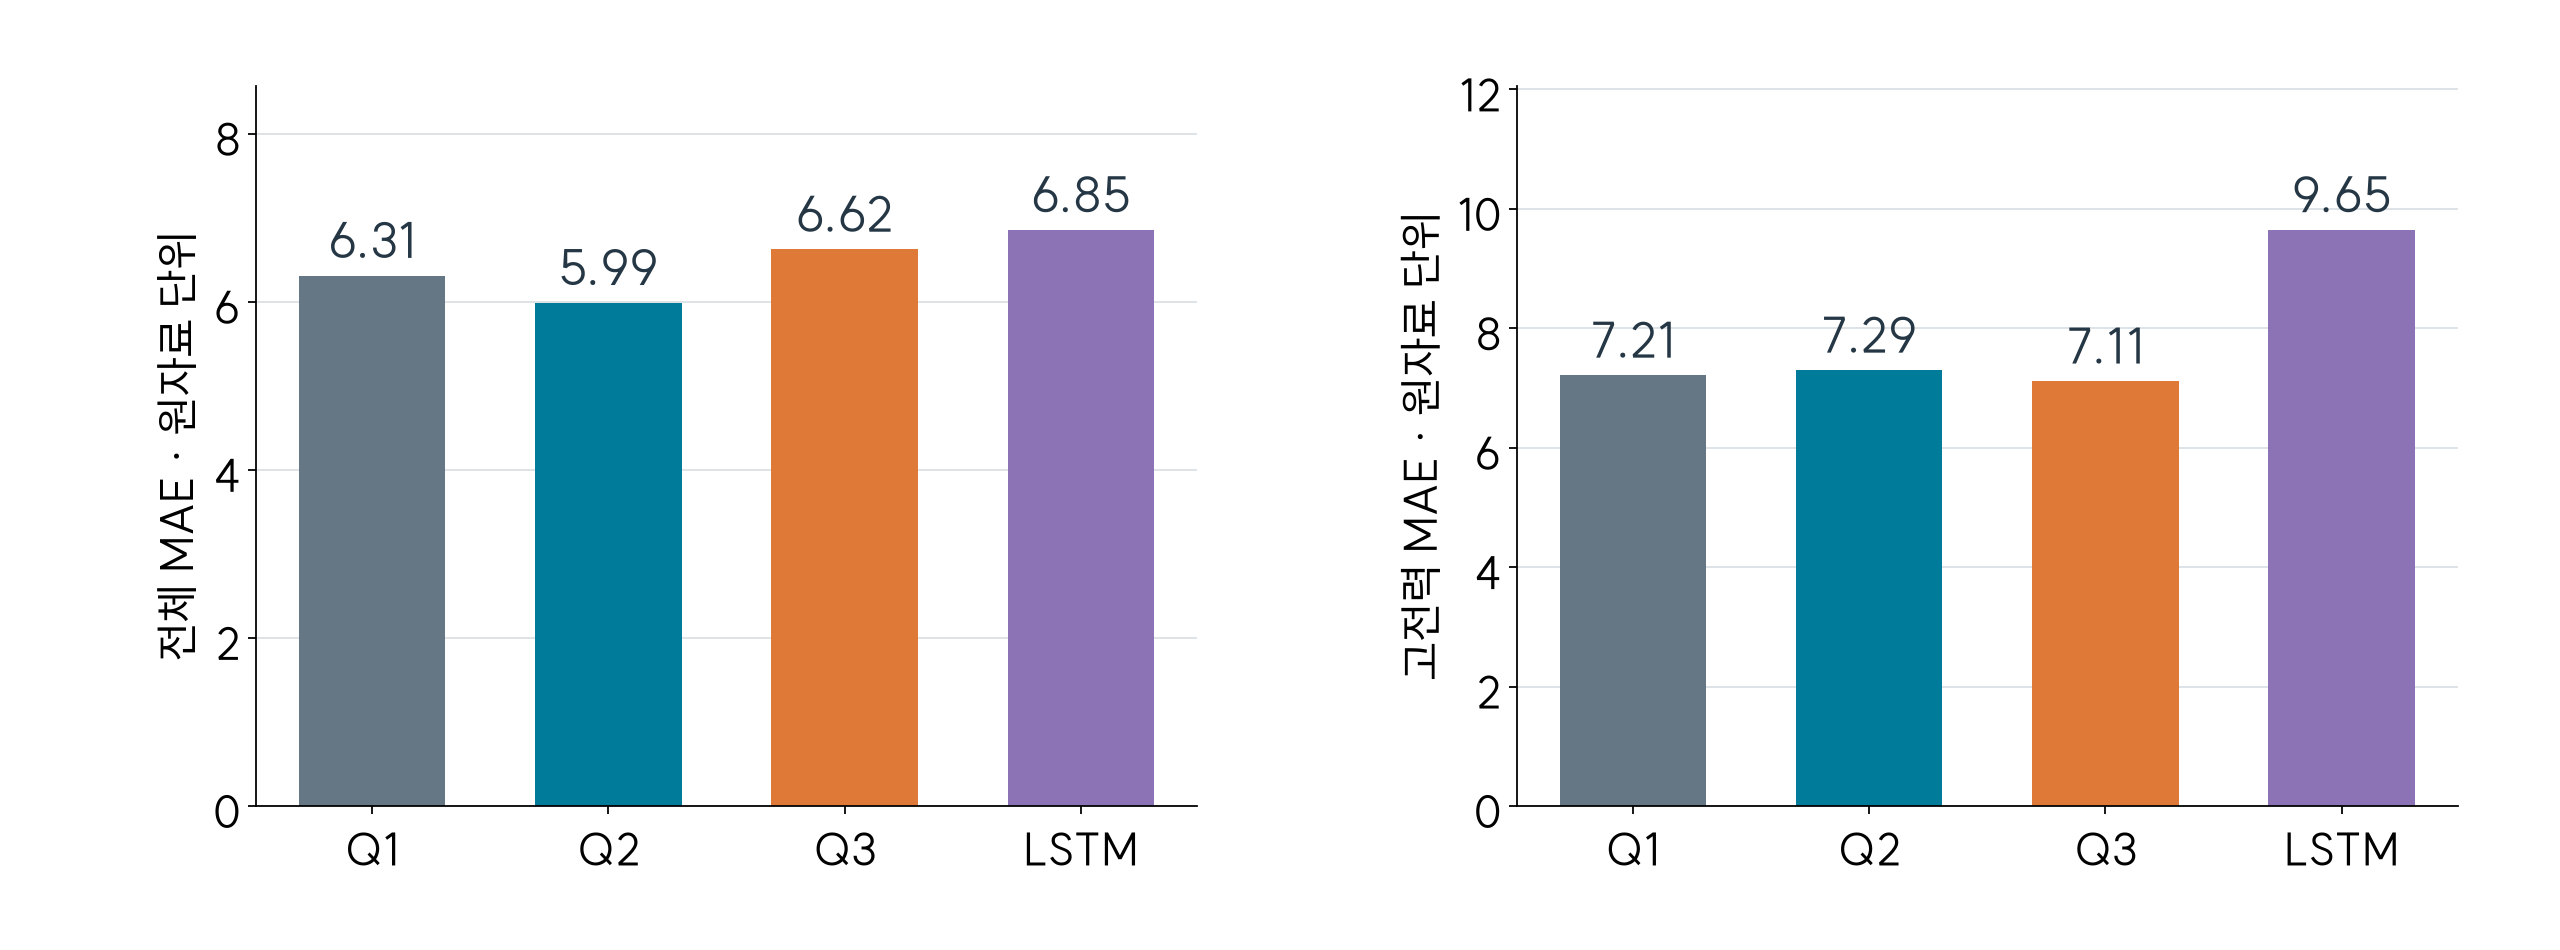
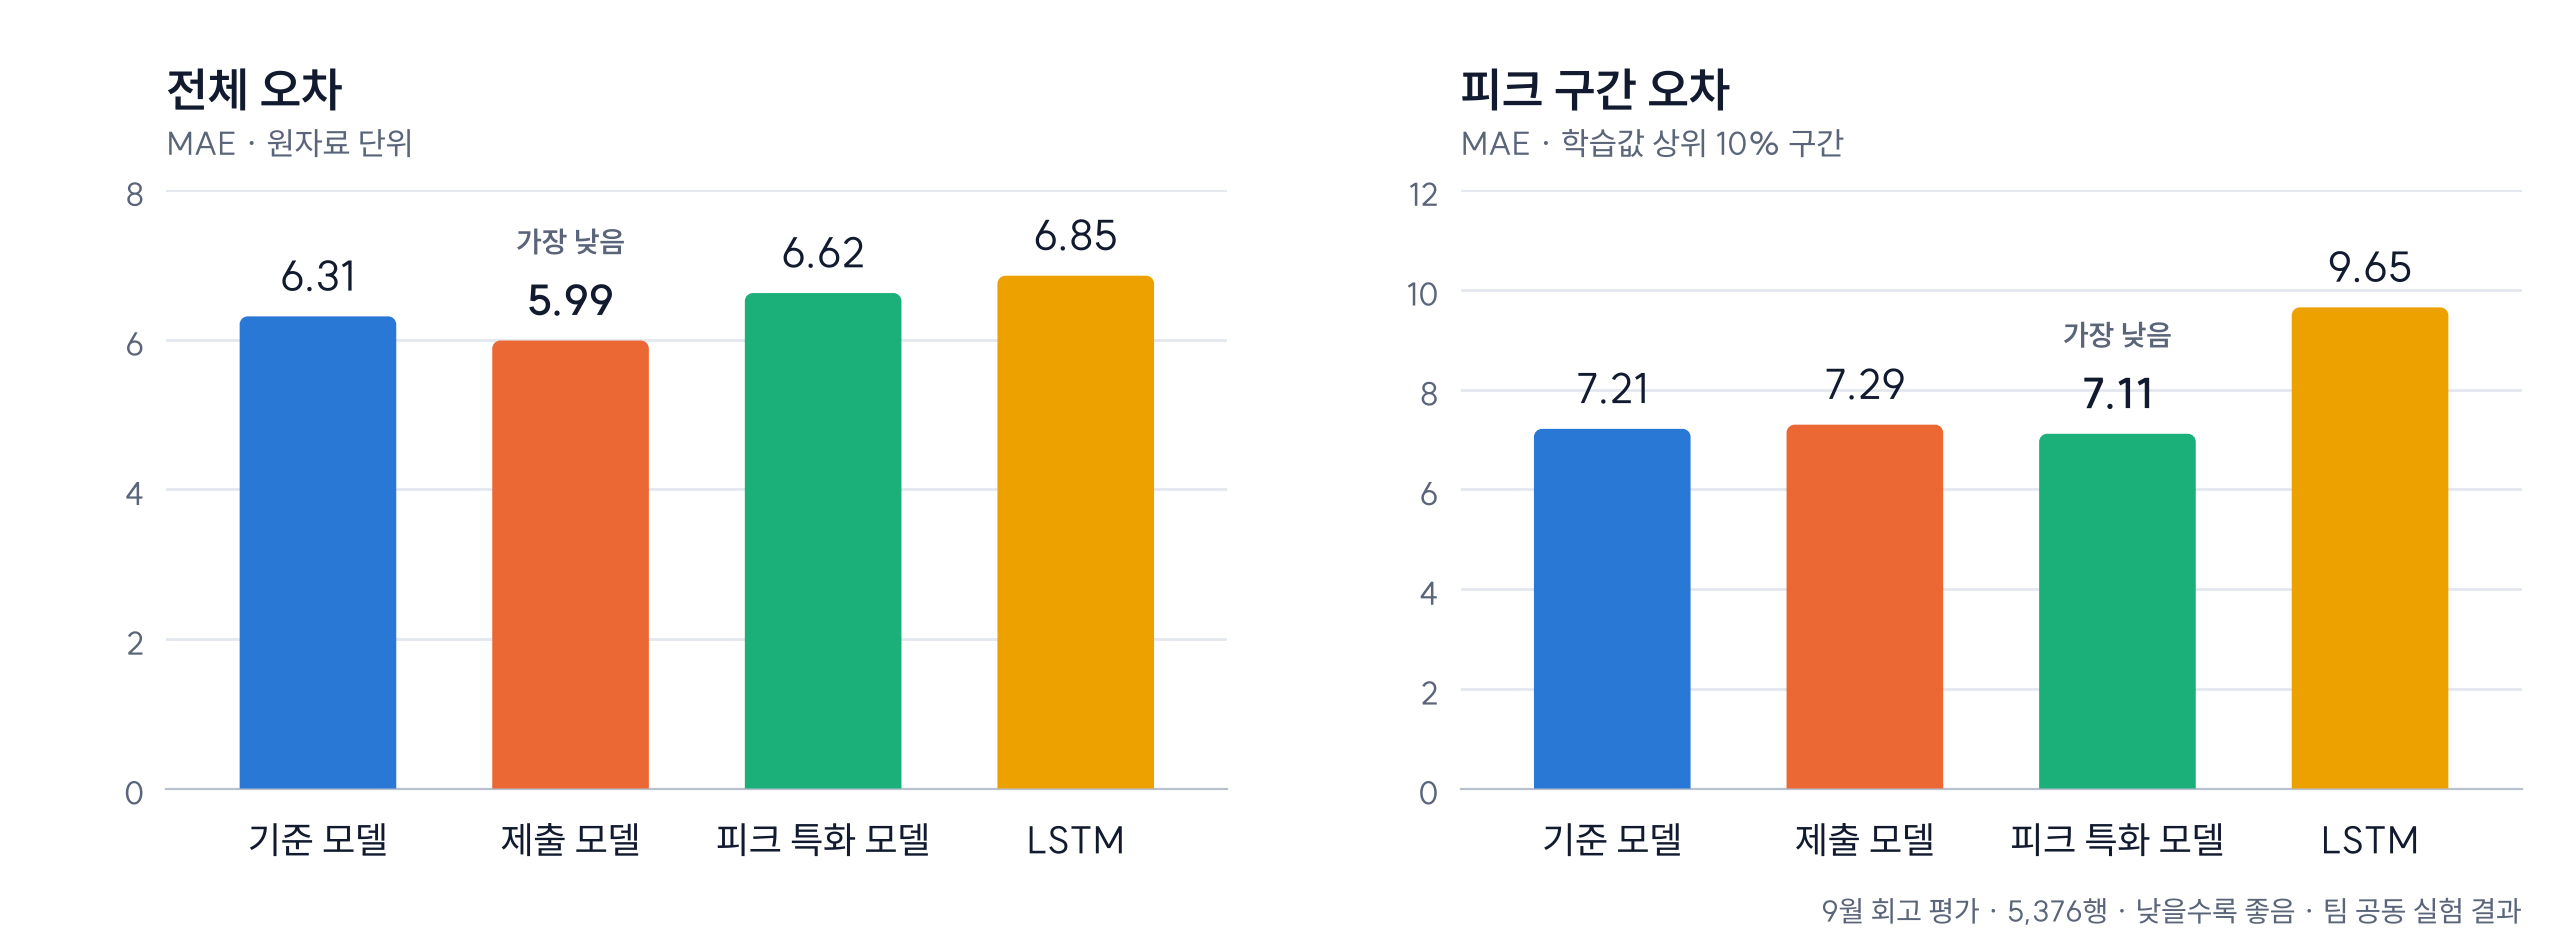
Update power forecast comparison chart and model labels

diff --git a/power-forecast.html b/power-forecast.html
@@ -64,7 +64,7 @@
 </tbody></table></div>
 <p>제출 모델은 기준 모델보다 <strong>전체 오차를 5.1%, 큰 오차를 절반 이하로</strong> 줄였습니다. 피크 구간은 피크 특화 모델이 더 정확해 두 결과를 함께 남겼습니다.</p>
 <p class="power-limit"><strong>회고.</strong> 제출 모델은 사전에 정한 교체 기준을 넘지 못했고, 피크 구간 오차는 오히려 늘었습니다. 9월 결과를 보고 고른 선택이라 새 기간에서 다시 검증해야 합니다.</p>
-<figure class="power-figure"><a class="power-image-link" href="assets/power-forecast/06_model_comparison.png" target="_blank" rel="noopener noreferrer" aria-label="공동 실험의 기준·제출·피크 특화·LSTM 모델의 전체 오차와 피크 구간 오차 비교 원본 확대"><img src="assets/power-forecast/06_model_comparison.png" width="2560" height="950" alt="공동 실험의 기준·제출·피크 특화·LSTM 모델의 전체 오차와 피크 구간 오차 비교" loading="lazy"></a><figcaption>전체 오차는 제출 모델, 피크 구간 오차는 피크 특화 모델이 가장 낮았습니다. 팀 공동 실험 결과입니다.<span class="power-enlarge">그림을 선택하면 원본을 확대할 수 있습니다.</span></figcaption></figure>
+<figure class="power-figure"><a class="power-image-link" href="assets/power-forecast/06_model_comparison.png" target="_blank" rel="noopener noreferrer" aria-label="공동 실험의 기준·제출·피크 특화·LSTM 모델의 전체 오차와 피크 구간 오차 비교 원본 확대"><img src="assets/power-forecast/06_model_comparison.png" width="2560" height="950" alt="9월 평가 막대그래프. 전체 오차: 기준 6.31, 제출 5.99, 피크 특화 6.62, LSTM 6.85. 피크 구간 오차: 기준 7.21, 제출 7.29, 피크 특화 7.11, LSTM 9.65" loading="lazy"></a><figcaption>전체 오차는 제출 모델, 피크 구간 오차는 피크 특화 모델이 가장 낮았습니다. 팀 공동 실험 결과입니다.<span class="power-enlarge">그림을 선택하면 원본을 확대할 수 있습니다.</span></figcaption></figure>
 </div>
 </div></section>
 <section class="case-section" id="alarm-analysis" aria-labelledby="alarm-analysis-title"><h2 data-reveal id="alarm-analysis-title"><span class="step-number">04</span> 피크는 놓치지 않되, 너무 자주 울리지 않게 했습니다.</h2><div class="case-content">

diff --git a/projects.js b/projects.js
@@ -79,7 +79,7 @@ window.PORTFOLIO_PROJECTS = [
     category: '데이터 분석 · 머신러닝',
     tags: ['Python', 'pandas', 'LightGBM', 'scikit-learn', 'PyTorch'],
     cover: 'assets/power-forecast/06_model_comparison.png',
-    coverAlt: '공동 실험의 Q1·Q2·Q3·LSTM 전체 오차와 고전력 오차 비교',
+    coverAlt: '9월 평가에서 기준·제출·피크 특화·LSTM 모델의 전체 오차와 피크 구간 오차 막대 비교. 전체 오차는 제출 모델 5.99, 피크 구간 오차는 피크 특화 모델 7.11이 가장 낮음',
     highlights: [
       { label: '문제', text: '공장 전력을 15분 단위로 예측하고 피크 전에 경보하기 (경진대회 과제)' },
       { label: '내 역할', text: '팀장 · 데이터 검증 · 평가 기준 설계' },

diff --git a/evidence/power-forecast/make_model_comparison.py b/evidence/power-forecast/make_model_comparison.py
@@ -1,0 +1,79 @@
+"""Re-draw 06_model_comparison.png with the page's model names.
+
+Values come straight from evidence/power-forecast/model_comparison.csv (mae, high_mae).
+Output keeps the original 2560x950 px so the page's width/height attributes stay valid.
+"""
+import csv, sys
+import matplotlib
+matplotlib.use("Agg")
+from matplotlib import font_manager as fm
+import matplotlib.pyplot as plt
+from matplotlib.path import Path
+from matplotlib.patches import PathPatch
+
+def top_rounded_bar(ax, x0, x1, h, rpx, color):
+    """Bar whose data end has rounded corners (rpx device px) and a square baseline."""
+    fig = ax.figure
+    fig.canvas.draw()
+    bb = ax.get_window_extent()
+    (xa, xb), (ya, yb) = ax.get_xlim(), ax.get_ylim()
+    rx = rpx * (xb - xa) / bb.width
+    ry = min(rpx * (yb - ya) / bb.height, h / 2)
+    k = 0.5523
+    verts = [(x0, 0), (x0, h - ry), (x0, h - ry + k * ry), (x0 + rx - k * rx, h), (x0 + rx, h),
+             (x1 - rx, h), (x1 - rx + k * rx, h), (x1, h - ry + k * ry), (x1, h - ry), (x1, 0), (x0, 0)]
+    codes = [Path.MOVETO, Path.LINETO, Path.CURVE4, Path.CURVE4, Path.CURVE4,
+             Path.LINETO, Path.CURVE4, Path.CURVE4, Path.CURVE4, Path.LINETO, Path.CLOSEPOLY]
+    ax.add_patch(PathPatch(Path(verts, codes), facecolor=color, linewidth=0, zorder=3))
+
+CSV, OUT, FONTDIR = sys.argv[1], sys.argv[2], sys.argv[3]
+for w in ("Regular", "Bold"):
+    fm.fontManager.addfont(f"{FONTDIR}/SUIT-{w}.ttf")
+plt.rcParams["font.family"] = "SUIT Static"
+plt.rcParams["font.weight"] = 450
+
+rows = {r["alias"].lstrip(""): r for r in csv.DictReader(open(CSV, encoding="utf-8-sig"))}
+order = [("Q1", "기준 모델"), ("Q2", "제출 모델"), ("Q3", "피크 특화 모델"), ("LSTM", "LSTM")]
+# Fixed categorical order (validated: adjacent CVD ΔE ≥ 9.1, normal ΔE ≥ 22.9). Color follows the model in both panels.
+colors = ["#2a78d6", "#eb6834", "#1baf7a", "#eda100"]
+INK, INK2, GRID = "#111a2e", "#5a6579", "#e3e7ee"
+
+panels = [
+    ("mae", "전체 오차", "MAE · 원자료 단위", 8),
+    ("high_mae", "피크 구간 오차", "MAE · 학습값 상위 10% 구간", 12),
+]
+
+fig, axes = plt.subplots(1, 2, figsize=(12.8, 4.75), dpi=200)
+fig.subplots_adjust(left=0.065, right=0.985, top=0.80, bottom=0.17, wspace=0.22)
+
+for ax, (key, title, ylabel, ymax) in zip(axes, panels):
+    vals = [float(rows[a][key]) for a, _ in order]
+    ax.set_xlim(-0.6, len(vals) - 0.4)
+    ax.set_ylim(0, ymax)
+    best = min(range(len(vals)), key=vals.__getitem__)
+    width = 0.62
+    for i, (v, c) in enumerate(zip(vals, colors)):
+        # Bar with 4px-style rounded data end, square at the baseline.
+        top_rounded_bar(ax, i - width / 2, i + width / 2, v, 8, c)
+        ax.text(i, v + ymax * 0.025, f"{v:.2f}", ha="center", va="bottom", fontsize=15,
+                fontweight="bold" if i == best else "normal", color=INK, zorder=4)
+        if i == best:
+            ax.text(i, v + ymax * 0.135, "가장 낮음", ha="center", va="bottom", fontsize=10.5,
+                    fontweight="bold", color=INK2, zorder=4)
+    ax.set_xlim(-0.6, len(vals) - 0.4)
+    ax.set_ylim(0, ymax)
+    ax.set_xticks(range(len(vals)))
+    ax.set_xticklabels([n for _, n in order], fontsize=13.5, color=INK)
+    ax.tick_params(axis="x", length=0, pad=10)
+    ax.tick_params(axis="y", length=0, labelsize=11.5, labelcolor=INK2, pad=8)
+    ax.set_yticks(range(0, ymax + 1, 2))
+    ax.grid(axis="y", color=GRID, linewidth=1, zorder=0)
+    for s in ("top", "right", "left"):
+        ax.spines[s].set_visible(False)
+    ax.spines["bottom"].set_color("#b9c1cf")
+    ax.set_title(title, loc="left", fontsize=17, fontweight="bold", color=INK, pad=30)
+    ax.text(0, 1.045, ylabel, transform=ax.transAxes, fontsize=11.5, color=INK2, va="bottom")
+
+fig.text(0.985, 0.03, "9월 회고 평가 · 5,376행 · 낮을수록 좋음 · 팀 공동 실험 결과", ha="right", fontsize=10.5, color=INK2)
+fig.savefig(OUT, dpi=200, facecolor="white")
+print("saved", OUT)

diff --git a/design/QA.md b/design/QA.md
@@ -213,3 +213,4 @@ GitHub `Kimyubin357/Batteryflow-ML-Platform`의 커밋 `8753ffd187f8fc9b465755e6
 - 수정: ① 1600px 이상에서 히어로 "서비스로 연결합니다."의 마침표가 6px 잘림 → 제목 최대 크기 92→88px. ② 320–420px에서 이메일·체험 계정 아이디가 단어 중간에서 줄바뀜 → 이메일 글자 크기 조정, 체험 계정 행을 이름 위·값 아래로 배치. ③ 부산 민감도 표가 좁은 화면에서 약국 이름을 음절 단위로 끊음 → 480px 이하에서 최소 폭을 두고 표 안에서 가로 스크롤. ④ 인터뷰 첫 화면이 방송 자막과 재생 버튼 제목을 겹쳐 보여 줌 → 자막 없는 장면(클립 1.4초)으로 정지 화면 교체. ⑤ 로딩 페이지의 "20–30초"가 "20–/30초"로 끊김 → 줄바꿈 금지.
 - 재검사 결과: 161조합 모두 문서 가로 넘침·화면 밖 요소·잘림·겹침·이미지 오류·스크립트 오류 0건. 표·지도 확대·Copilot 확대·마키는 의도한 내부 스크롤/잘림이다.
 - 남은 점: 전력 대표 카드·상세의 모델 비교 그림(06_model_comparison.png) 축 이름은 여전히 Q1·Q2·Q3이다(본문 용어는 기준·제출·피크 특화 모델). Safari·실제 휴대전화는 미검증.
+- (추가) 모델 비교 그림 재생성: `06_model_comparison.png`를 `model_comparison.csv`의 mae·high_mae로 다시 그렸다(2560×950 유지). 축 이름을 기준·제출·피크 특화 모델·LSTM으로 바꾸고, 패널 제목·단위·평가 범위와 각 패널의 '가장 낮음'을 표시했다. 막대 색은 모델마다 고정한 4색(인접 색각 이상 ΔE ≥ 9.1, 일반 ΔE ≥ 22.9로 검증)이며 모든 막대에 값이 적혀 있다. 표시 값 6.31·5.99·6.62·6.85 / 7.21·7.29·7.11·9.65가 CSV 반올림과 일치함을 확인했다. alt와 메인 카드 coverAlt도 새 용어와 값으로 바꿨다. 위의 '남은 점' 중 그림 용어 불일치는 해결됐다.

diff --git a/evidence/power-forecast/README.md b/evidence/power-forecast/README.md
@@ -10,6 +10,7 @@
 - metrics.json: 모델·경보·데이터 품질·검증 기록과 모델 선택 범위.
 - model_comparison.csv: 동일 9월 평가 행의 Q1·Q2·Q3·LSTM 비교.
 - analysis_summary.json: 공식 기상 대조·리듬·반복 프로파일 집계.
+- make_model_comparison.py: `model_comparison.csv`의 `mae`·`high_mae`로 사이트 그림 `assets/power-forecast/06_model_comparison.png`(2560×950)를 다시 그리는 스크립트(2026-10-17). 페이지 용어에 맞춰 Q1·Q2·Q3를 기준·제출·피크 특화 모델로 표기한다. 실행: `python make_model_comparison.py model_comparison.csv 06_model_comparison.png <SUIT-Regular/Bold.ttf 폴더>` (SUIT 가변 글꼴을 450·700 정적 TTF로 변환해 사용).
 
 ## 수치의 해석
 
